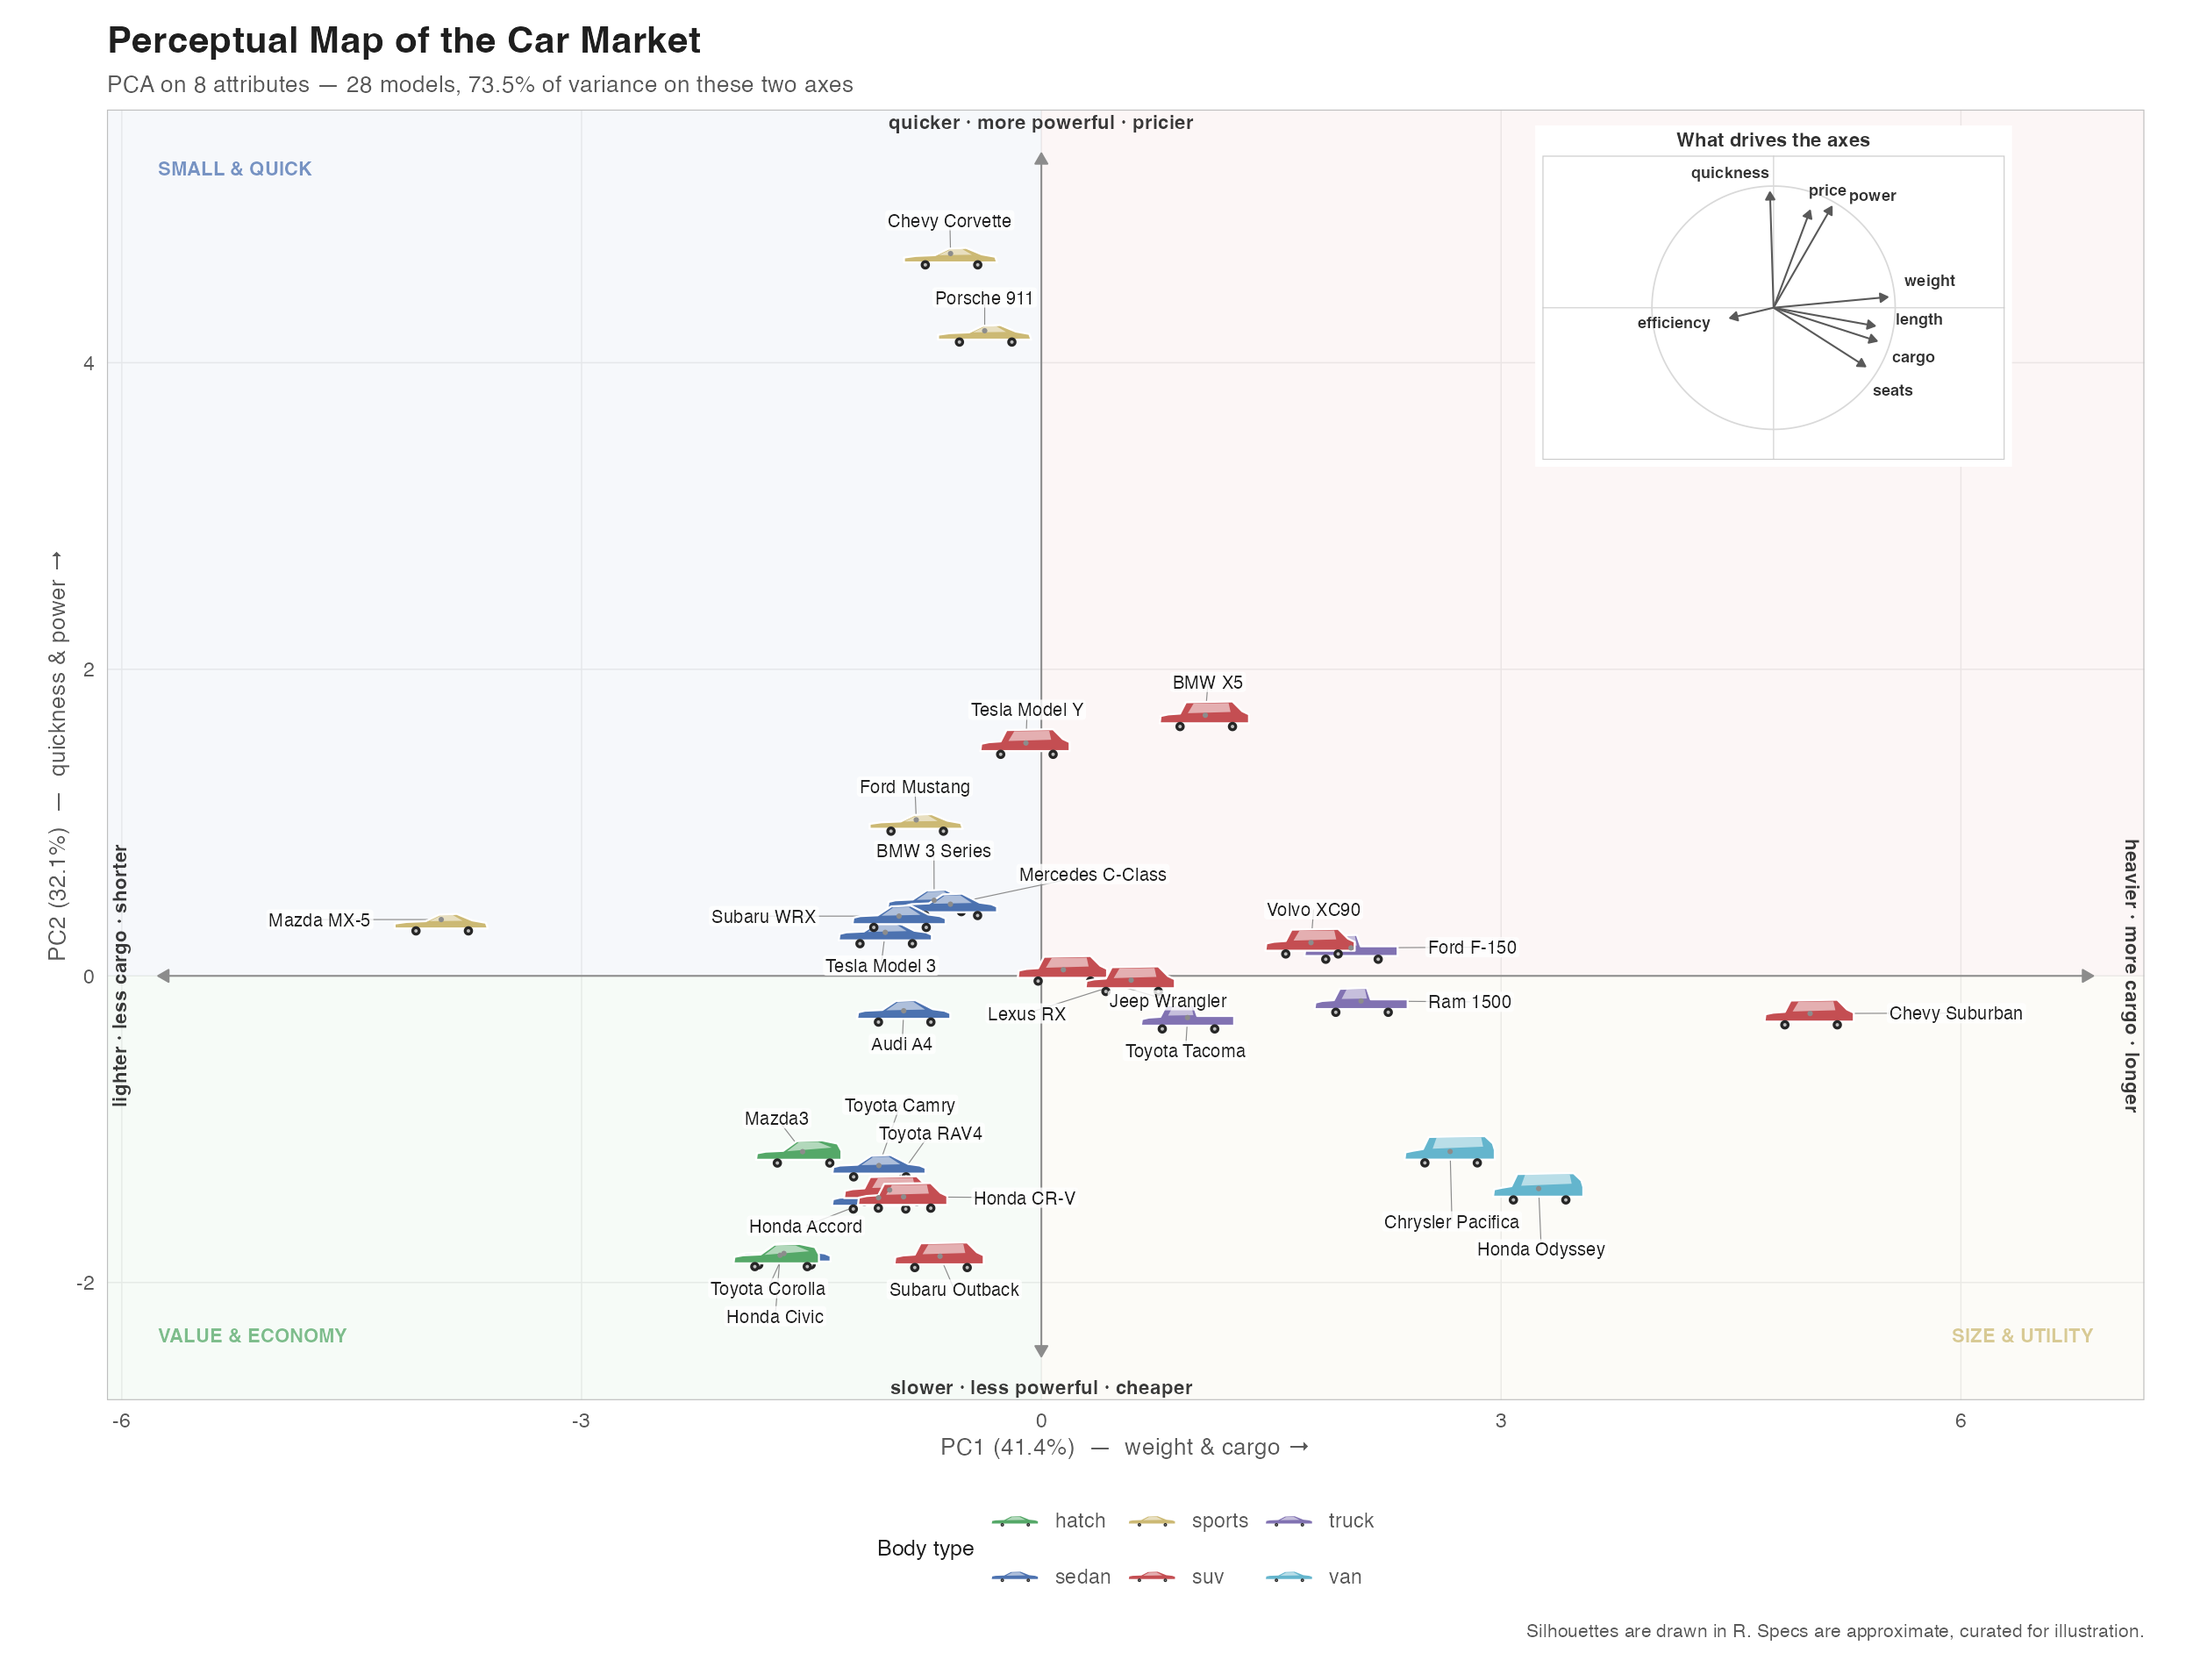
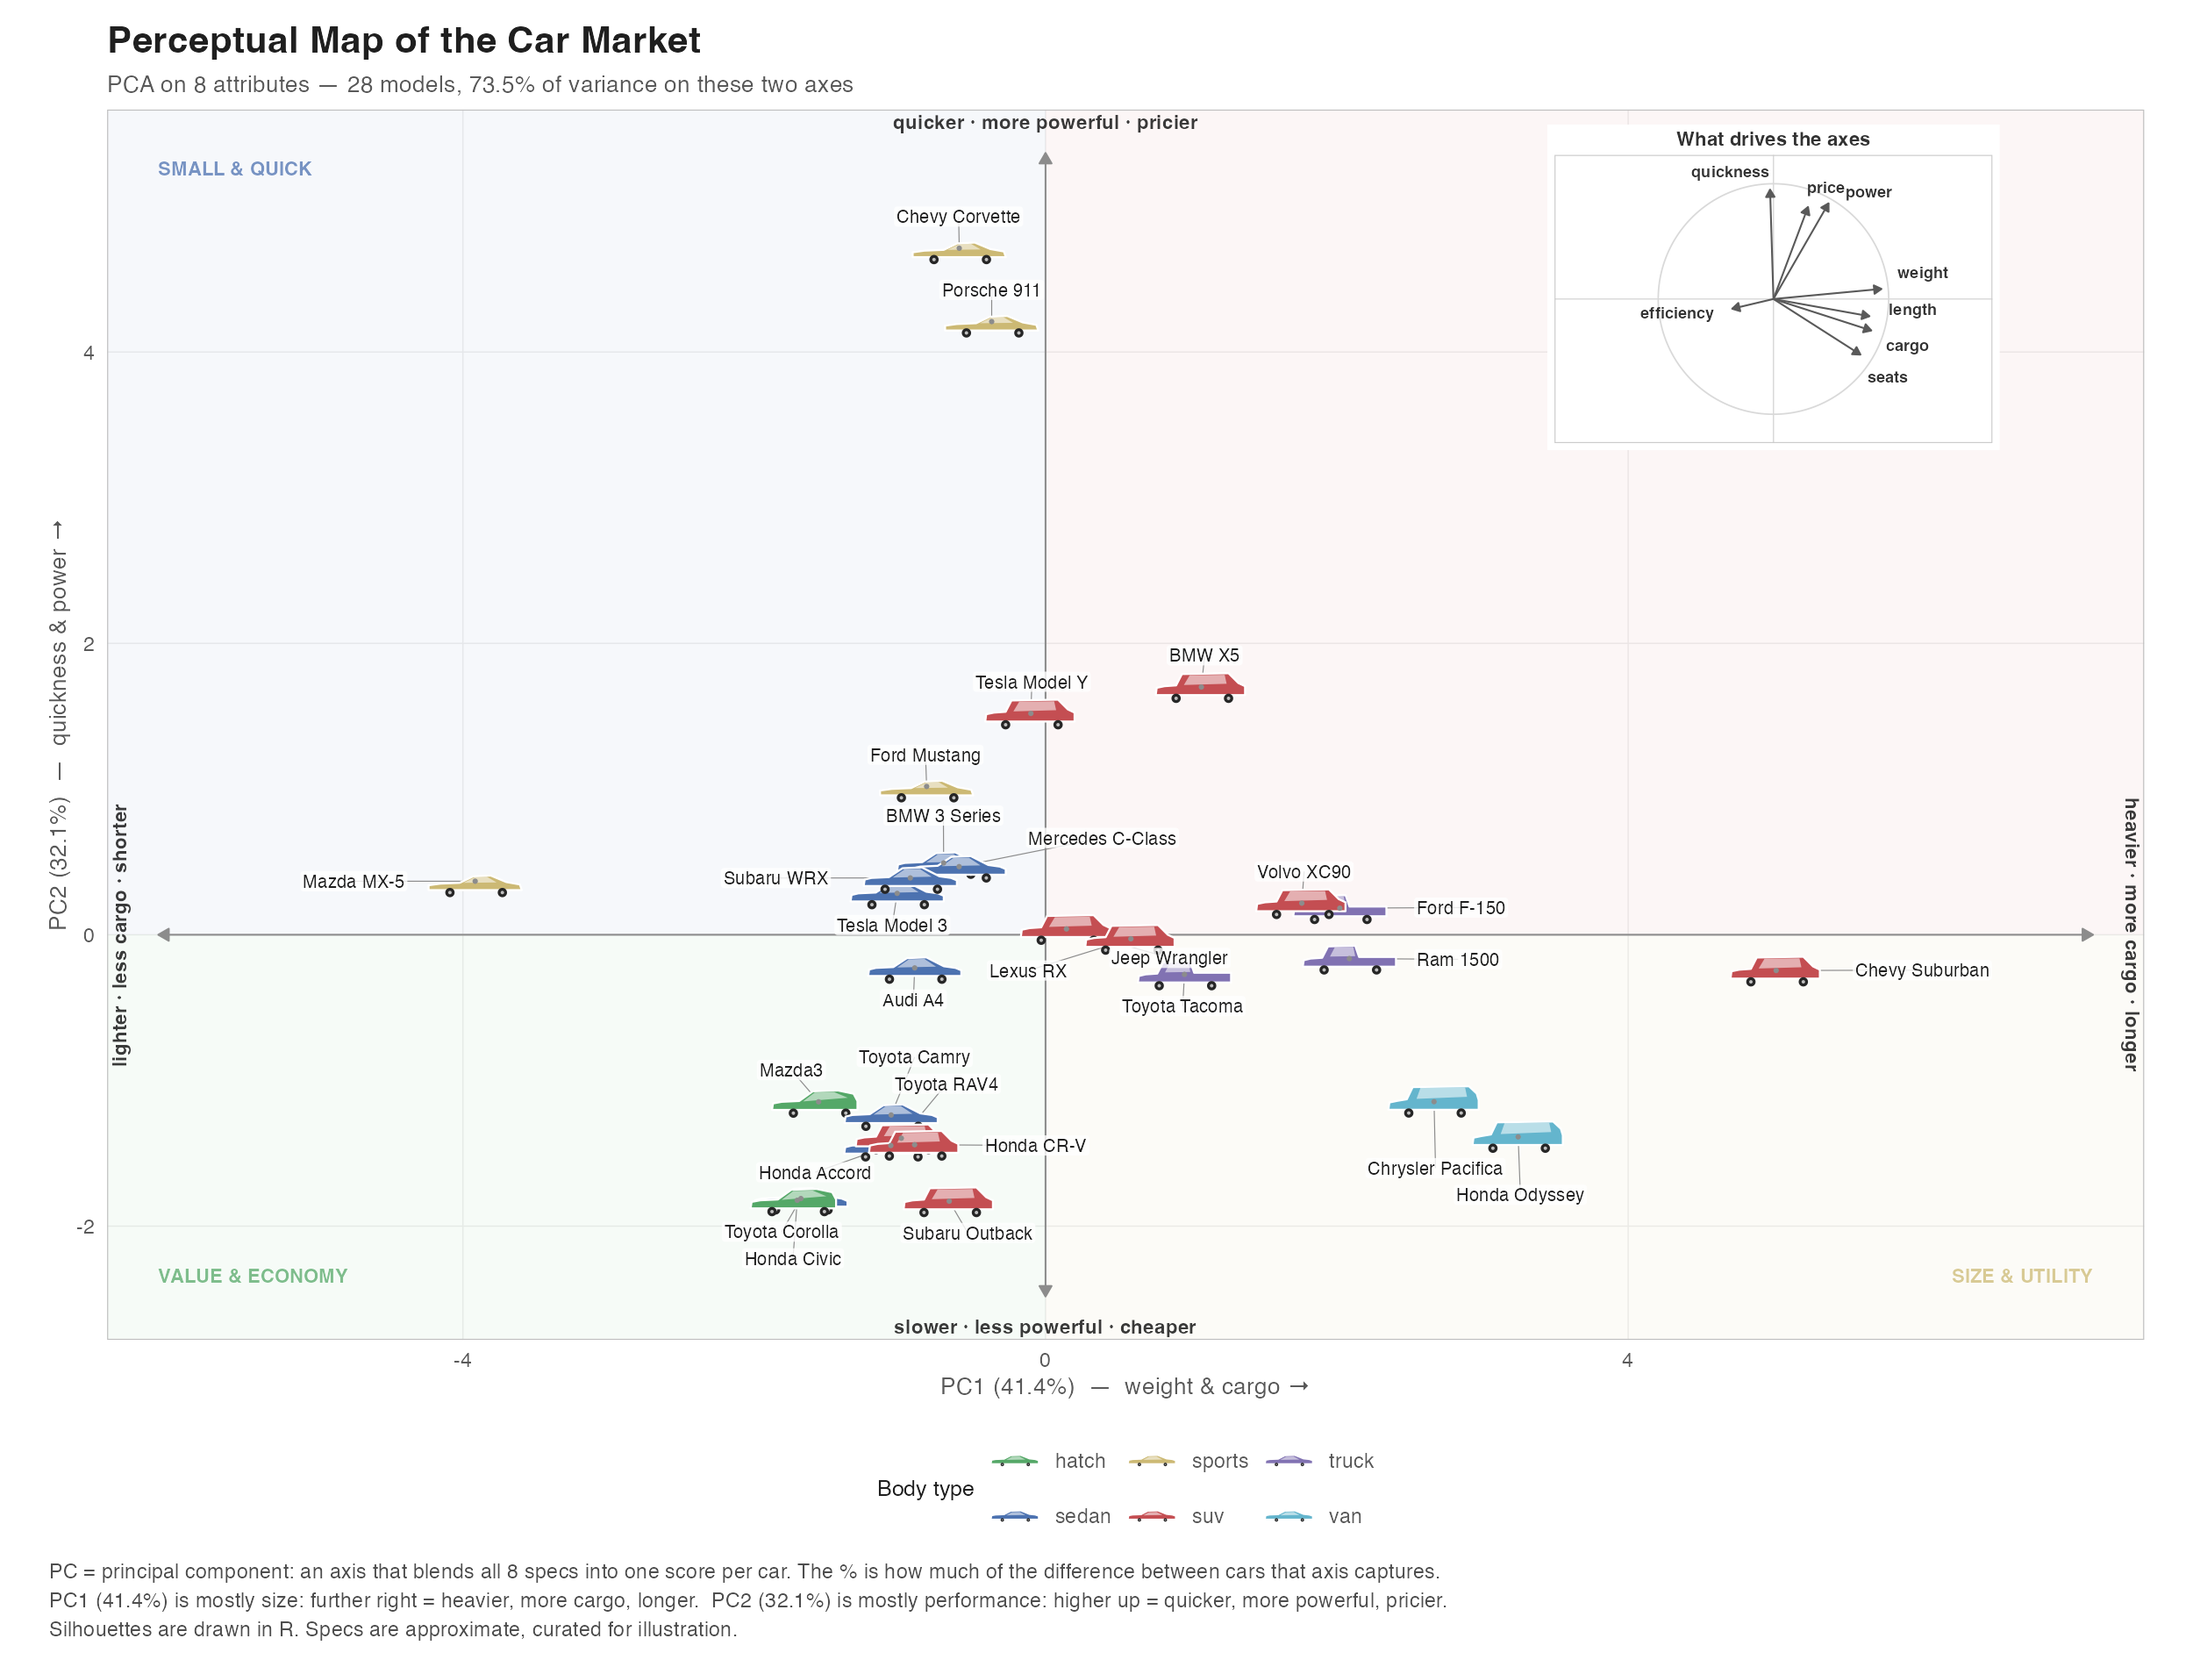
Explain what PC1, PC2 and the percentages mean
The map now carries a key under the plot that defines the terms on its axes:
PC is a principal component, an axis blending all the selected specs into one
score, and the percentage is how much of the difference between cars it
captures. It then names what the two axes on screen mostly measure -- "PC1
(41.4%) is mostly size: further right = heavier, more cargo, longer". The key
wraps to the window, one axis per line when both will not fit, and its height
is taken out of the panel before the aspect fit so the map still fills the
space. A sidebar toggle hides it.

Component names come from a new axis_theme(): ATTRS gains a theme per
attribute (size, performance, price, efficiency), and a component is named
after the theme whose strong attributes carry the most weight, or two themes
when the runner-up is close. A component with no attribute at |r| >= 0.45 is
reported as having no clear pattern rather than given a name it has not earned.

How it works section 3 is now "What PC1, PC2 and the rest are". It opens by
defining PC, and adds a live table of every component -- share, running total,
name, what a higher score means, strongest specs -- with badges on the two
shown on the map. Below it, notes that follow the fit: why PC1 vs PC2 is the
default, which specs the default pair hides and which component they live on
(efficiency, on PC3), and how much the components past the dropdowns carry.

diff --git a/README.md b/README.md
@@ -32,11 +32,18 @@ patchwork, scales, grid, ragg**. Nothing to install.
   recomputed from the loadings whenever you change attributes or axes, drop
   their weakest words on a narrow window, and sit in a band of their own so car
   labels never land on them.
+- **Axis key** under the map defines the terms: *PC* is a principal component
+  (an axis blending all the specs into one score) and the percentage is how
+  much of the difference between cars that axis captures. It then names what
+  each axis on screen mostly measures — e.g. *PC1 (41.4%) is mostly size*.
 - **Body types**, silhouette size, labels, quadrants, hulls.
 - **Light / dark toggle** in the header. It themes the entire app — chrome,
   cards, tables, both plots, and the downloaded PNG — not just the map.
 - Tabs for variance explained, the loadings table, the raw data, and
-  **How it works**, an in-app explanation of the whole pipeline. Its *What left,
+  **How it works**, an in-app explanation of the whole pipeline. *What PC1, PC2
+  and the rest are* tables every component live — its share, running total,
+  plain-English name and strongest specs — and flags any spec the default view
+  hides (efficiency, which lives on PC3). *What left,
   right, up and down mean* section lays the four directions out as a compass,
   with correlation strengths, the furthest cars each way, the four corners as
   segments, and which attributes the current view shows poorly — all live.
